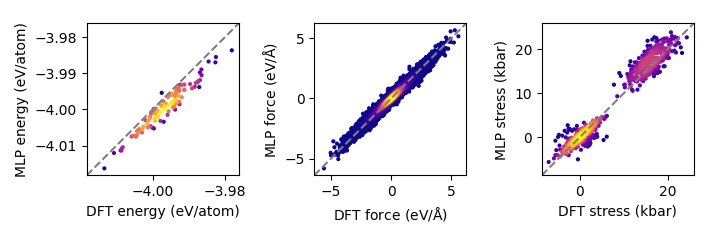
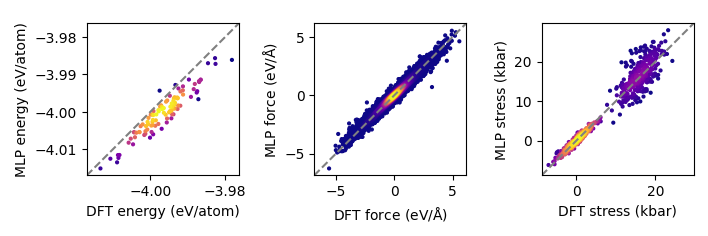
Add files via upload

diff --git a/sevenn_df/nn/scale.py b/sevenn_df/nn/scale.py
@@ -54,8 +54,7 @@ class Rescale(nn.Module):
         if 'S' in self.mode:
             x = self.shift_stress
             shift_stress = torch.cat([x, x, x, torch.zeros(3, device=volume.device, dtype=volume.dtype)], dim=-1)
-            data[self.key_output_S] = data[self.key_input_S]
-            # data[self.key_output_S] = (data[self.key_input_S] * self.scale_stress + shift_stress) # / volume
+            data[self.key_output_S] = (data[self.key_input_S] * self.scale_stress + shift_stress) # / volume
             if not self._is_batch_data:
                 data[self.key_output_S] = data[self.key_output_S].squeeze(0)
 

diff --git a/sevenn_df/nn/force_output.py b/sevenn_df/nn/force_output.py
@@ -250,7 +250,7 @@ class DirectEnergyStressOutput(nn.Module):
             [0.0, 0.0,  math.sqrt(2)/math.sqrt(3), 0.0,  0.0],
             [0.0, 0.0, -1/math.sqrt(6), 0.0, 1/math.sqrt(2)],
             [0.0, 1/math.sqrt(2), 0.0, 0.0, 0.0],
-            [0.0, 0.0, 0.0, 0.0, 1/math.sqrt(2)],
+            [0.0, 0.0, 0.0, 1/math.sqrt(2), 0.0],
             [1/math.sqrt(2), 0.0, 0.0, 0.0, 0.0]
         ], dtype=aniso.dtype, device=aniso.device)
         tot_num = torch.sum(data[KEY.NUM_ATOMS])  # ? item?

diff --git a/sevennet_tutorial/tuto_full.py b/sevennet_tutorial/tuto_full.py
@@ -82,7 +82,7 @@ train_cfg.update({
   'scheduler': 'exponentiallr',
   'scheduler_param': {'gamma': 0.99},
   'force_loss_weight': 0.2,
-  'stress_loss_weight': 1e-6,
+  'stress_loss_weight': 5e-6,
 })
 
 # Initialize trainer. It implements common rountines for training.
